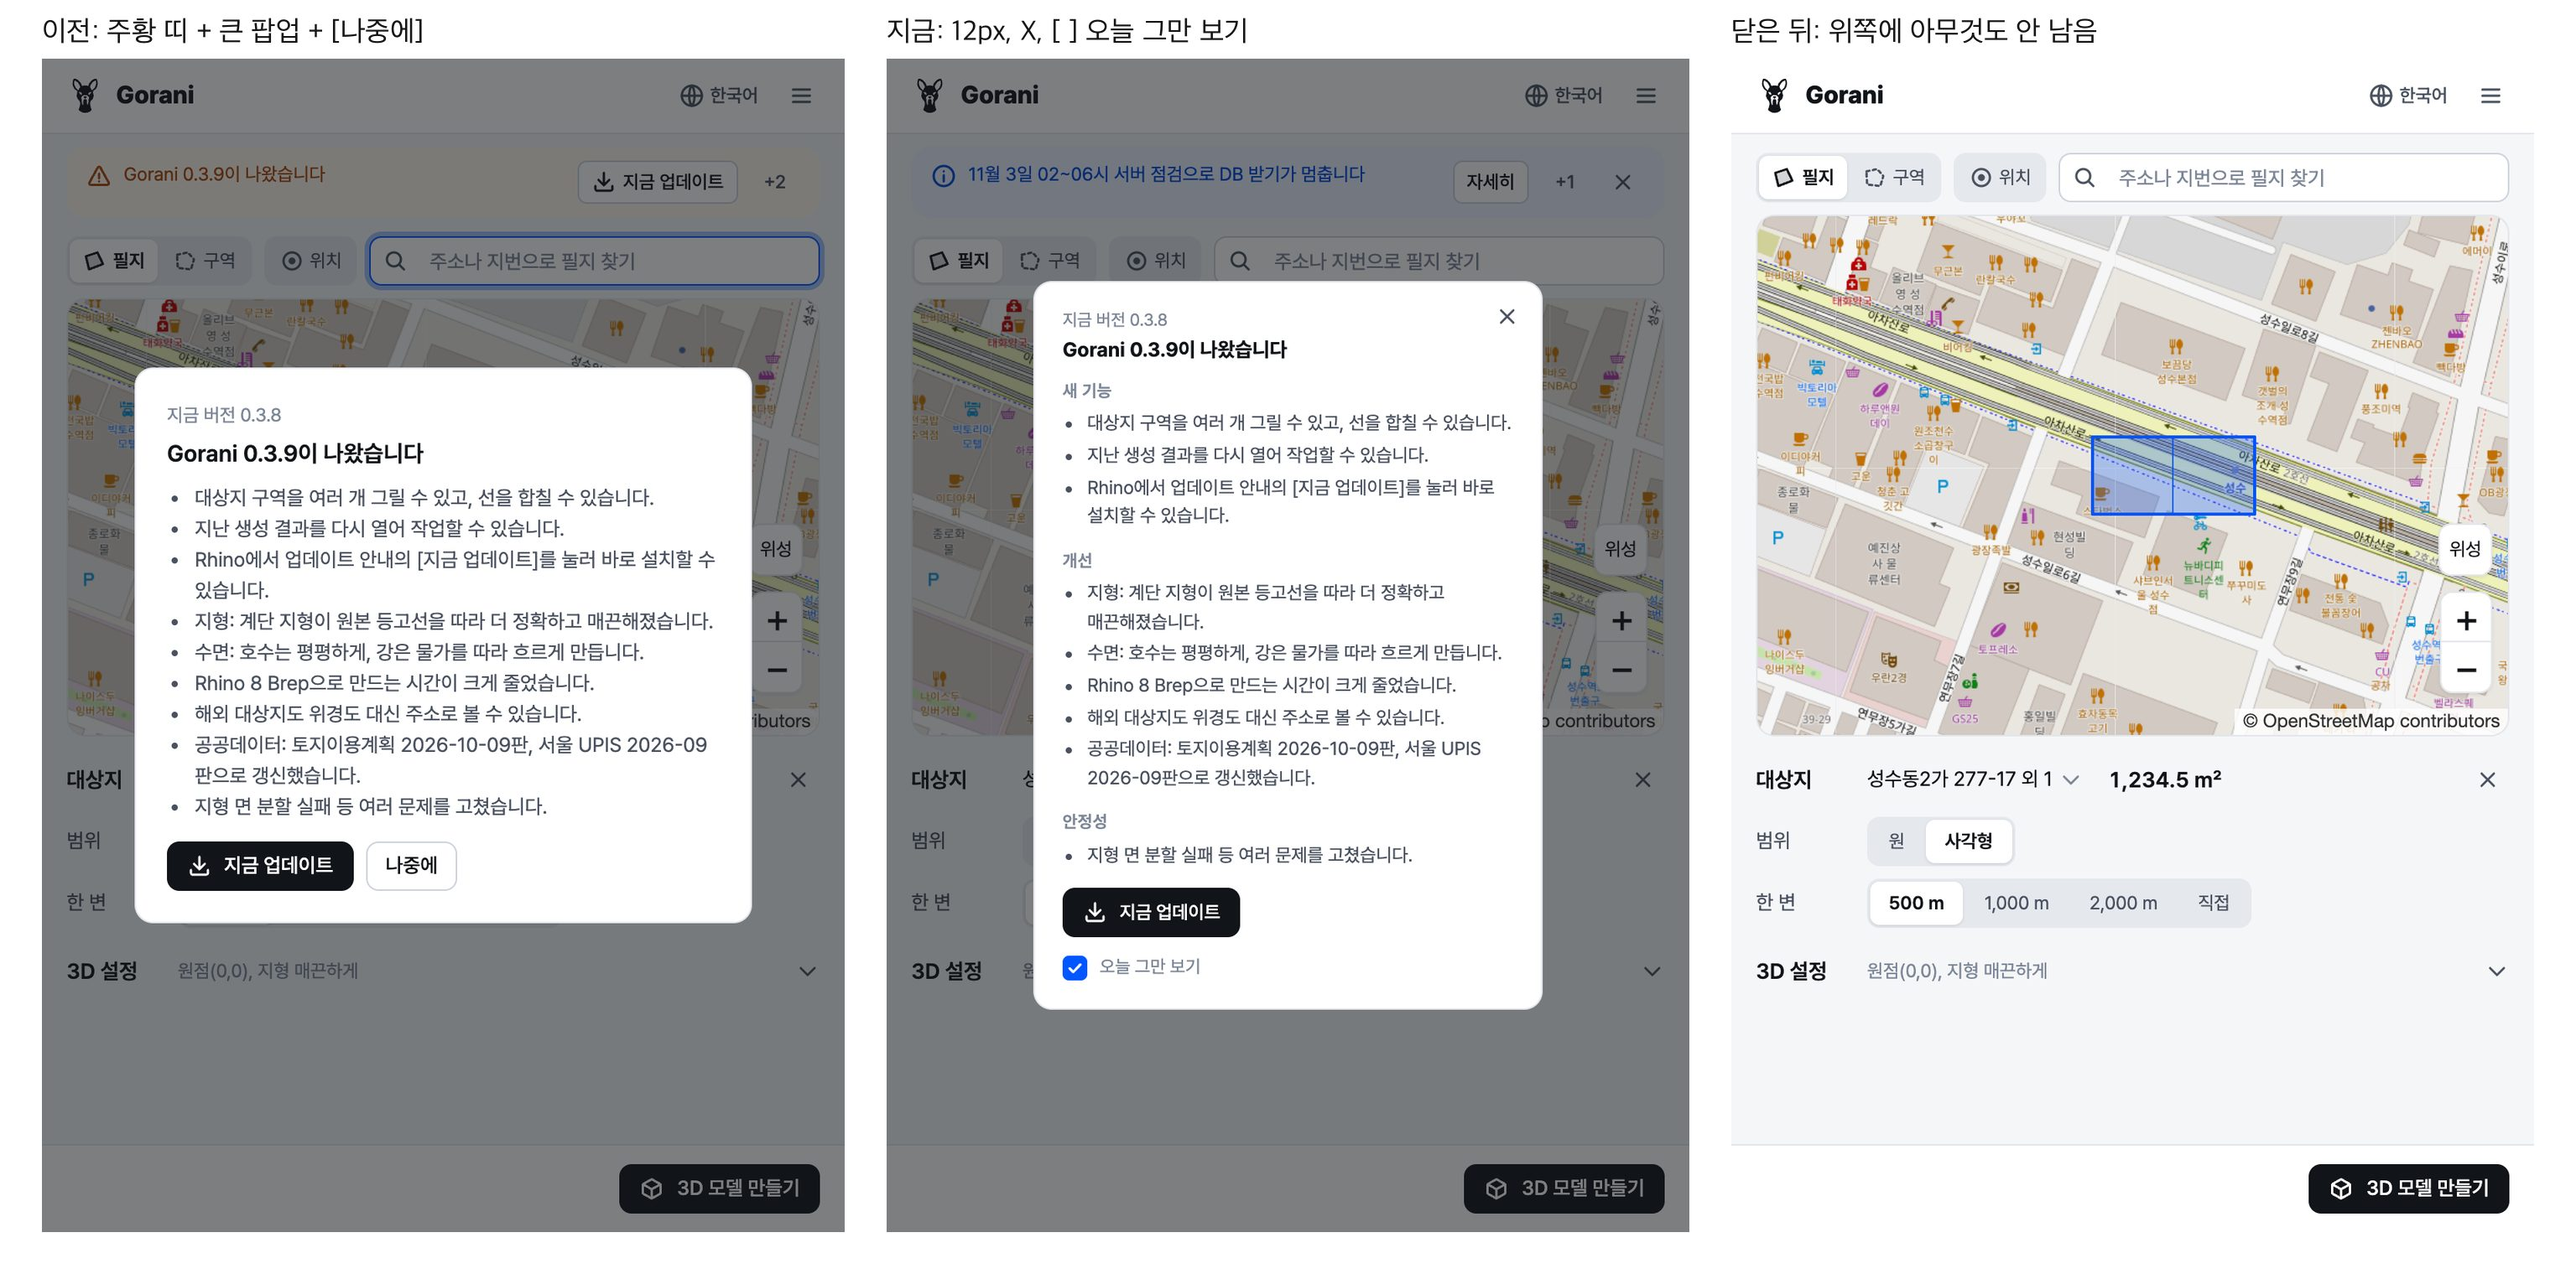
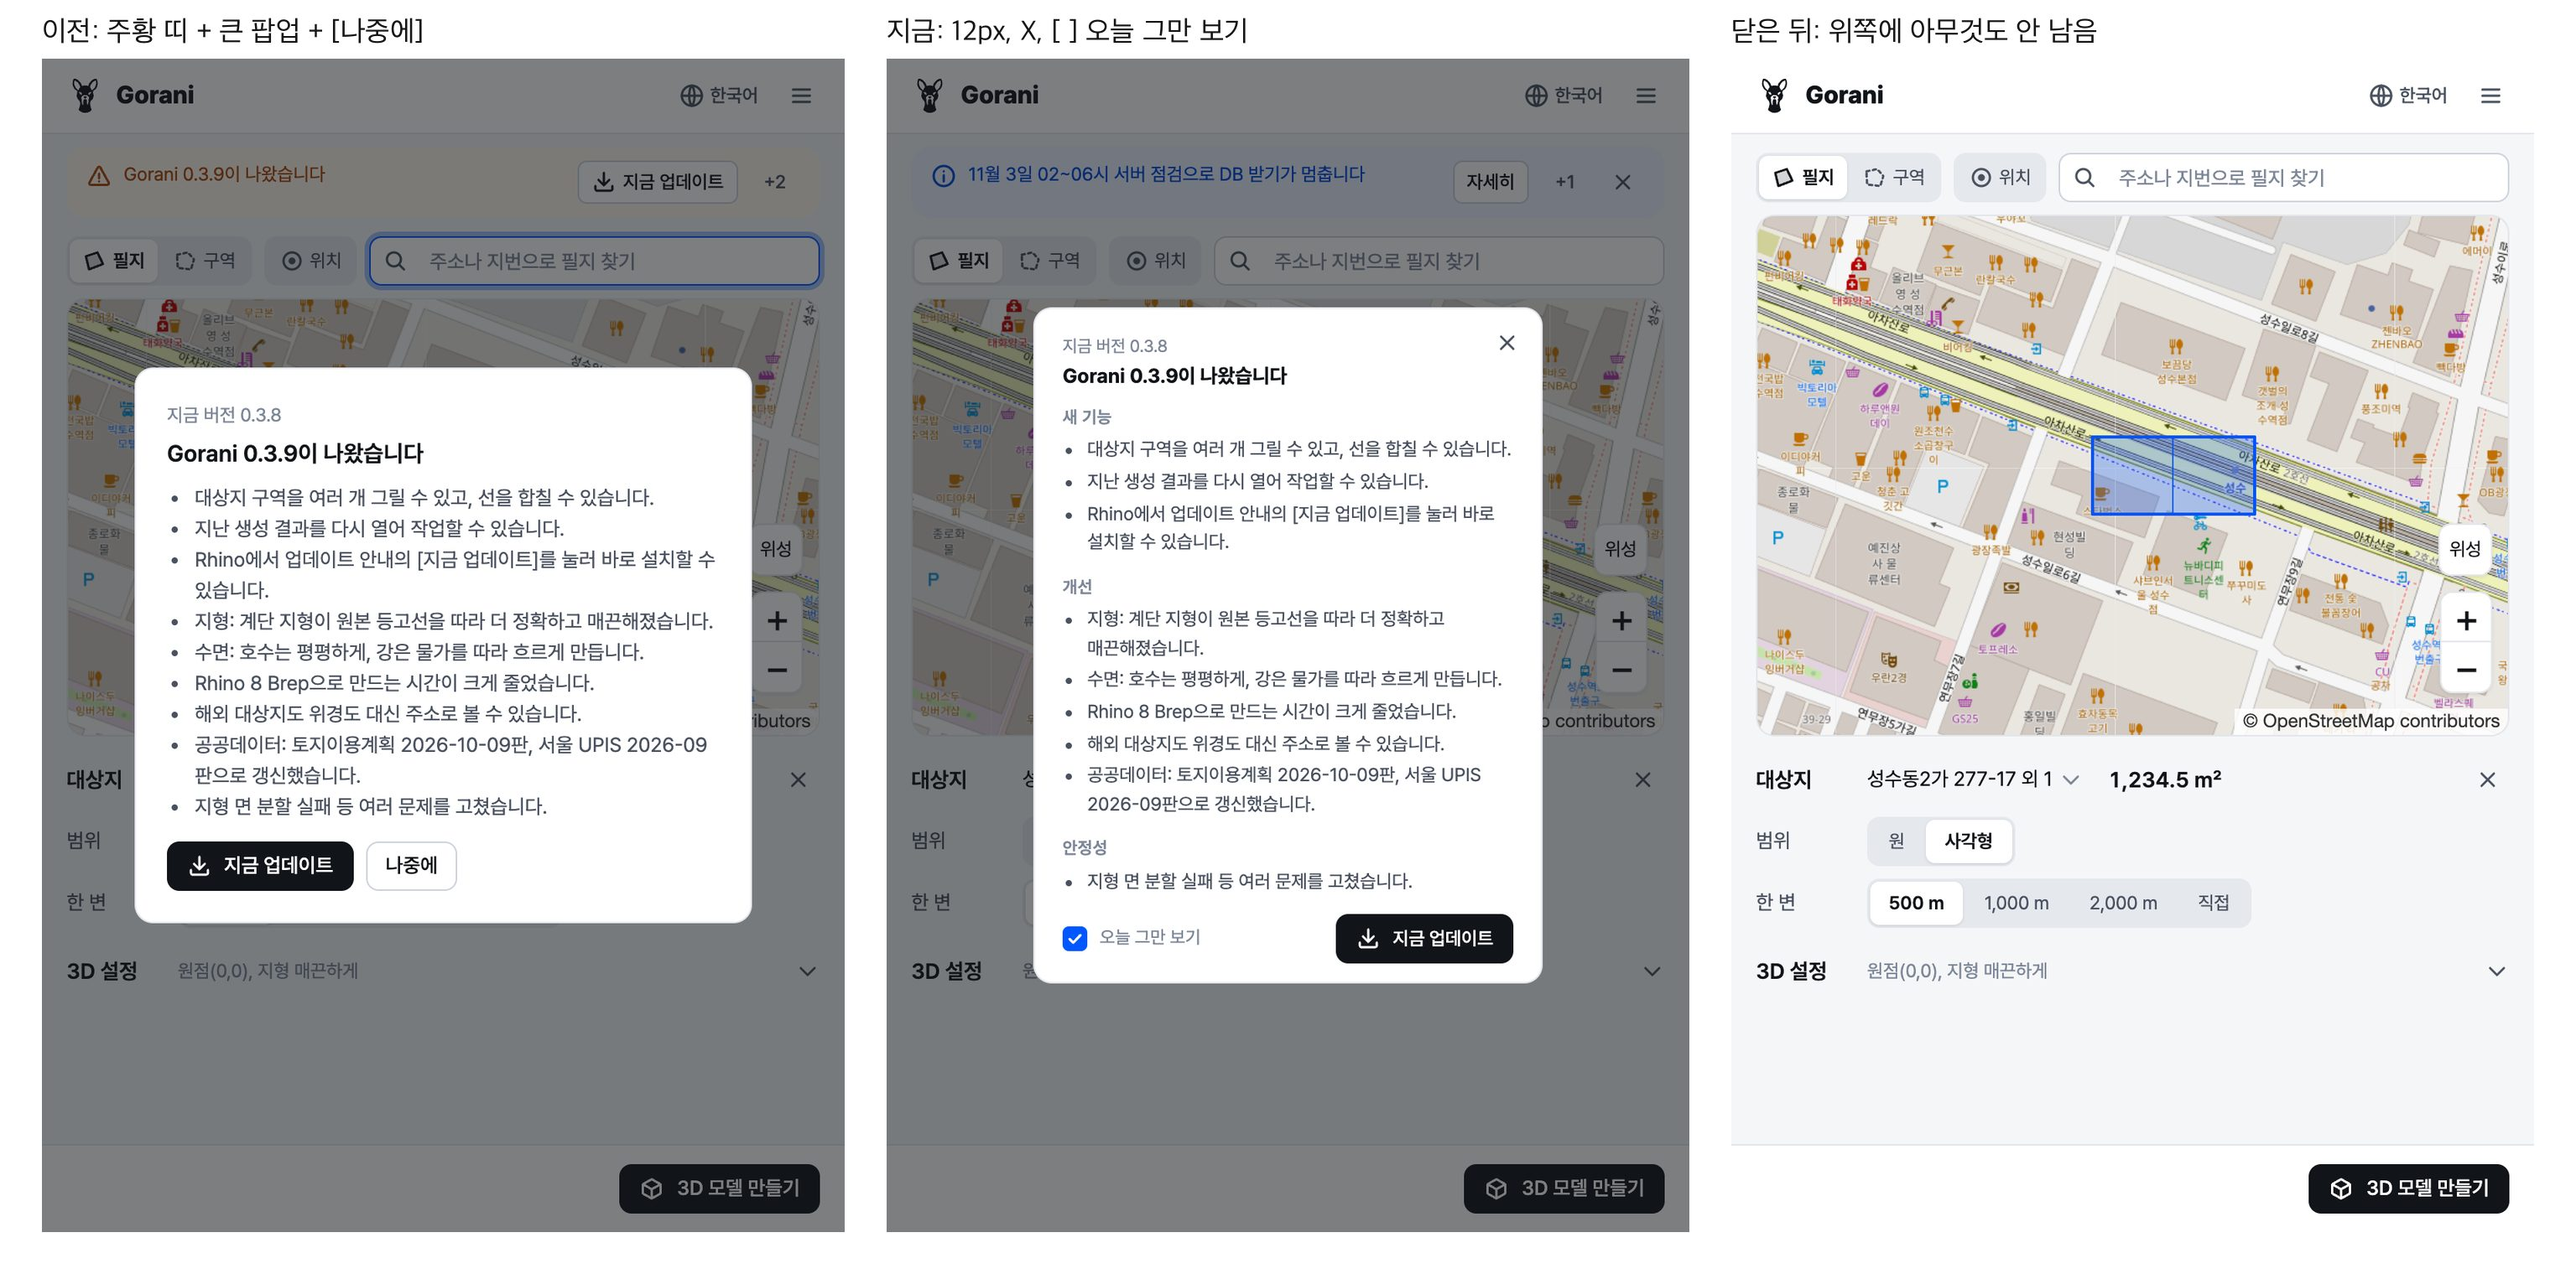
업데이트 팝업: [지금 업데이트]를 오른쪽 아래로, [ ] 오늘 그만 보기와 같은 줄에

Changed region(s): [[0.4021, 0.2164, 0.6187, 0.8039]]

diff --git a/scripts/site_ui.html b/scripts/site_ui.html
@@ -122,7 +122,8 @@ html:lang(zh-Hans) body { font-family: -apple-system, "PingFang SC", "Microsoft 
 #update_modal ol { margin: 0 0 14px; padding: 8px 10px 8px 26px; border: 1px solid var(--line); border-radius: 8px; color: var(--ink-2); font-size: 11.5px; line-height: 1.8; }
 #update_modal .due { color: var(--warn); font-size: 11px; }
 #update_modal .acts { display: flex; gap: 8px; flex-wrap: wrap; }
-#update_modal label.chk { margin-top: 6px; min-height: 28px; font-size: 11.5px; color: var(--ink-3); }   /* [ ] 오늘 그만 보기 */
+#update_modal .foot { display: flex; align-items: center; justify-content: space-between; gap: 10px; flex-wrap: wrap; margin-top: 4px; }   /* 아래 한 줄: 왼쪽 [ ] 오늘 그만 보기, 오른쪽 [지금 업데이트] */
+#update_modal label.chk { min-height: 28px; font-size: 11.5px; color: var(--ink-3); }
 .check-list { display: grid; grid-template-columns: 1.4em 7em 1fr; gap: 4px 8px; margin-bottom: 16px; }
 .check-list .ok { color: var(--ok); } .check-list .bad { color: var(--danger); } .check-list .opt { color: var(--ink-3); }
 /* 더보기 메뉴 — 헤더 아래로 떠오르는 둥근 면(최근 대상지·설정·도움) */
@@ -1907,7 +1908,7 @@ function renderUpdate() {
     : '<p class="ver">' + tr("지금 버전 {0}", v) + '</p><h2 id="update_title" tabindex="-1">' + esc(pickLang(u.title) || tr("Gorani {0}이 나왔습니다", u.latest)) + "</h2>" +
       (u.body ? "<p>" + esc(pickLang(u.body)) + "</p>" : "") + body +
       (u.deadline ? '<p class="due">' + tr("{0}부터 이 버전({1})은 쓸 수 없습니다.", esc(pickLang(u.deadline)), v) + "</p>" : "") + steps +
-      '<div class="acts">' + updateBtn("primary") + "</div>" + skip) + "</div>";
+      '<div class="foot">' + skip + updateBtn("primary") + "</div>") + "</div>";
   el.hidden = false;
   el.querySelector("h2").focus();
 }
